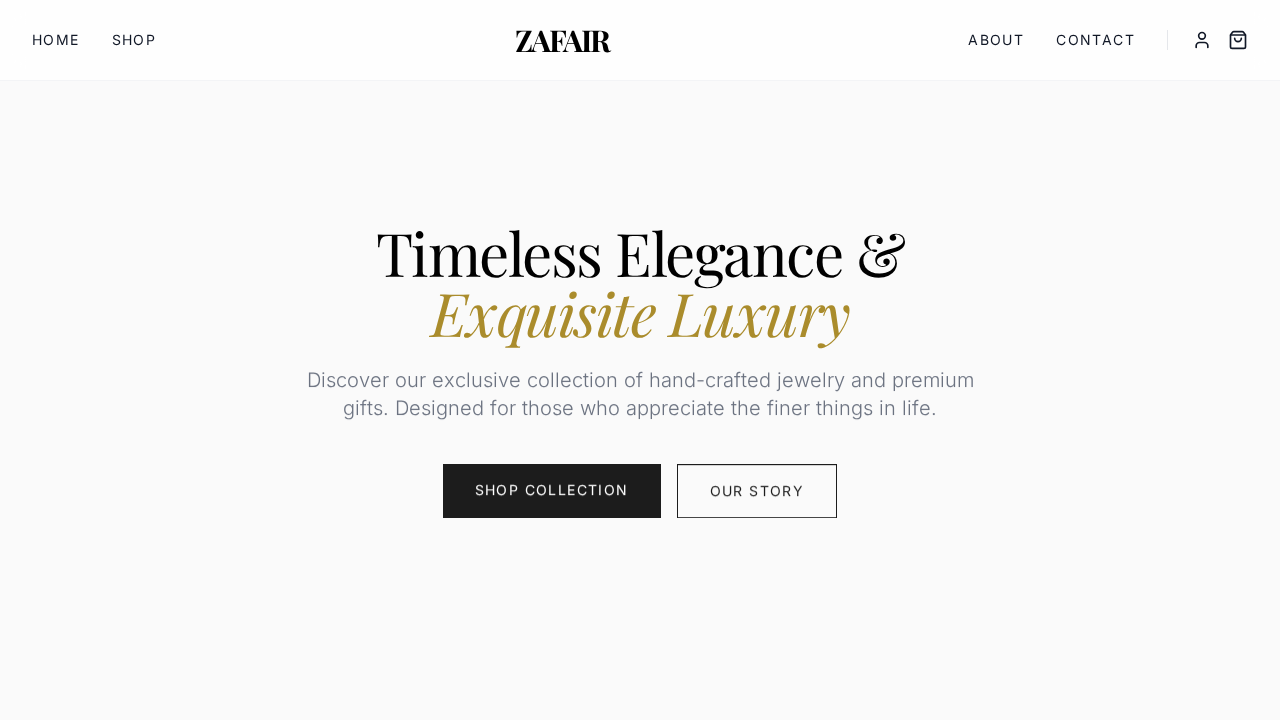
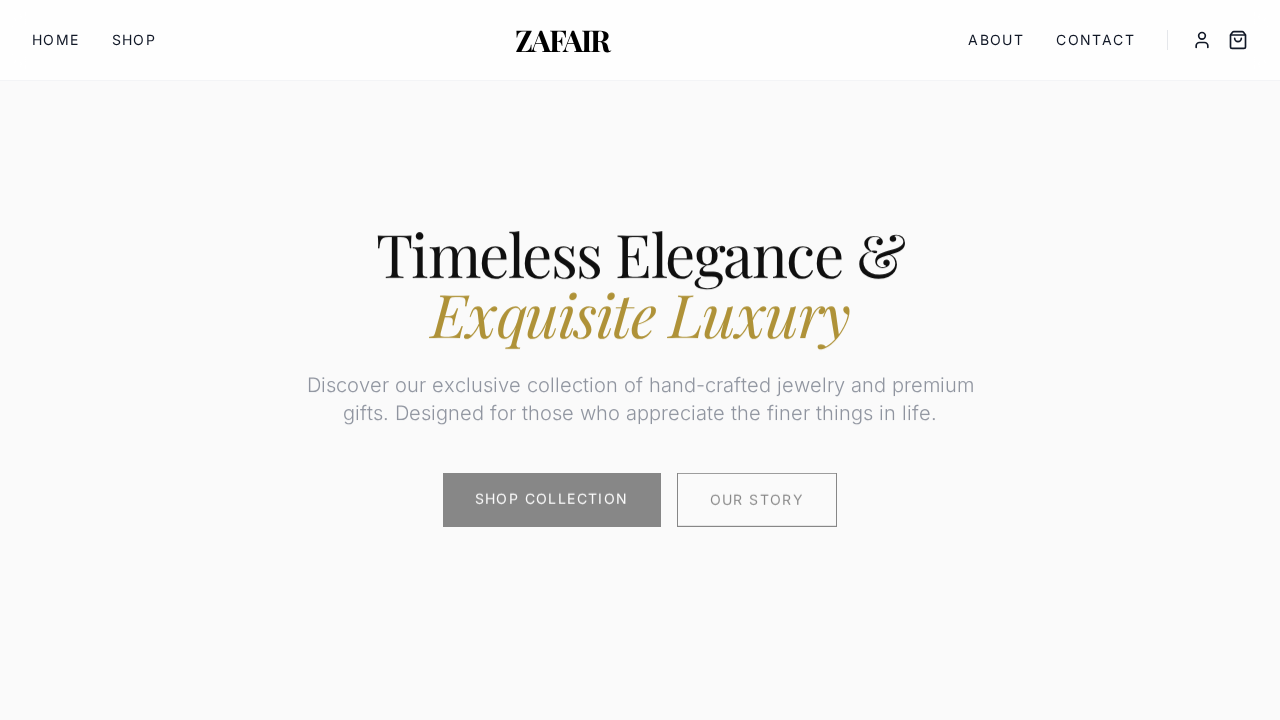
Migrate from Firestore to Realtime Database and add UI updates
- Updated src/firebase.js to initialize Realtime Database.
- Refactored AdminPanel.jsx, Shop.jsx, and Home.jsx to use Realtime Database SDK.
- Added Login button to Navbar.
- Removed Hero logo and added animations.
- Fixed database connectivity issues by matching code to user config.

diff --git a/src/pages/AdminPanel.jsx b/src/pages/AdminPanel.jsx
@@ -1,8 +1,8 @@
 import { useState, useEffect } from "react";
 import { useAuth } from "../context/AuthContext";
 import { db, storage } from "../firebase";
-import { collection, addDoc, getDocs, deleteDoc, doc, updateDoc } from "firebase/firestore";
-import { ref, uploadBytes, getDownloadURL } from "firebase/storage";
+import { ref, push, set, get, remove, update } from "firebase/database";
+import { ref as storageRef, uploadBytes, getDownloadURL } from "firebase/storage";
 import { Trash2, Edit2, LogOut } from "lucide-react";
 
 const AdminPanel = () => {
@@ -22,9 +22,17 @@ const AdminPanel = () => {
 
   const fetchProducts = async () => {
     try {
-      const querySnapshot = await getDocs(collection(db, "products"));
-      const productsData = querySnapshot.docs.map(doc => ({ ...doc.data(), id: doc.id }));
-      setProducts(productsData);
+      const snapshot = await get(ref(db, 'products'));
+      if (snapshot.exists()) {
+        const data = snapshot.val();
+        const productsData = Object.keys(data).map(key => ({
+          id: key,
+          ...data[key]
+        }));
+        setProducts(productsData);
+      } else {
+        setProducts([]);
+      }
     } catch (error) {
       console.error("Error fetching products:", error);
     } finally {
@@ -45,28 +53,29 @@ const AdminPanel = () => {
 
     try {
       if (image) {
-        const imageRef = ref(storage, `products/${Date.now()}_${image.name}`);
-        await uploadBytes(imageRef, image);
-        imageUrl = await getDownloadURL(imageRef);
+        const imageReference = storageRef(storage, `products/${Date.now()}_${image.name}`);
+        await uploadBytes(imageReference, image);
+        imageUrl = await getDownloadURL(imageReference);
       }
 
+      const productData = {
+        title,
+        price,
+        description,
+        category,
+        imageUrl: imageUrl || "",
+      };
+
       if (editMode) {
-        await updateDoc(doc(db, "products", editingId), {
-          title,
-          price,
-          description,
-          category,
-          ...(imageUrl && { imageUrl }),
-          updatedAt: new Date()
+        await update(ref(db, `products/${editingId}`), {
+          ...productData,
+          updatedAt: new Date().toISOString()
         });
       } else {
-        await addDoc(collection(db, "products"), {
-          title,
-          price,
-          description,
-          category,
-          imageUrl: imageUrl || "",
-          createdAt: new Date()
+        const newDocRef = push(ref(db, 'products'));
+        await set(newDocRef, {
+          ...productData,
+          createdAt: new Date().toISOString()
         });
       }
 
@@ -106,7 +115,7 @@ const AdminPanel = () => {
   const handleDelete = async (id) => {
     if (window.confirm("Are you sure you want to delete this product?")) {
       try {
-        await deleteDoc(doc(db, "products", id));
+        await remove(ref(db, `products/${id}`));
         fetchProducts();
       } catch (error) {
         console.error("Error deleting product:", error);

diff --git a/src/pages/Home.jsx b/src/pages/Home.jsx
@@ -3,7 +3,7 @@ import Hero from "../components/Hero";
 import ProductGallery from "../components/ProductGallery";
 import Navbar from "../components/Navbar";
 import { db } from "../firebase";
-import { collection, getDocs, limit, query } from "firebase/firestore";
+import { ref, query, limitToFirst, get } from "firebase/database";
 
 const Home = () => {
   const [featuredProducts, setFeaturedProducts] = useState([]);
@@ -11,10 +11,18 @@ const Home = () => {
   useEffect(() => {
     const fetchProducts = async () => {
       try {
-        const q = query(collection(db, "products"), limit(4));
-        const querySnapshot = await getDocs(q);
-        const productsData = querySnapshot.docs.map(doc => ({ ...doc.data(), id: doc.id }));
-        setFeaturedProducts(productsData);
+        const q = query(ref(db, "products"), limitToFirst(4));
+        const snapshot = await get(q);
+        if (snapshot.exists()) {
+          const data = snapshot.val();
+          const productsData = Object.keys(data).map(key => ({
+            id: key,
+            ...data[key]
+          }));
+          setFeaturedProducts(productsData);
+        } else {
+            setFeaturedProducts([]);
+        }
       } catch (error) {
         console.error("Error fetching featured products:", error);
       }

diff --git a/src/pages/Shop.jsx b/src/pages/Shop.jsx
@@ -2,7 +2,7 @@ import { useState, useEffect } from "react";
 import Navbar from "../components/Navbar";
 import ProductGallery from "../components/ProductGallery";
 import { db } from "../firebase";
-import { collection, getDocs } from "firebase/firestore";
+import { ref, get } from "firebase/database";
 
 const Shop = () => {
   const [products, setProducts] = useState([]);
@@ -11,9 +11,17 @@ const Shop = () => {
   useEffect(() => {
     const fetchProducts = async () => {
       try {
-        const querySnapshot = await getDocs(collection(db, "products"));
-        const productsData = querySnapshot.docs.map(doc => ({ ...doc.data(), id: doc.id }));
-        setProducts(productsData);
+        const snapshot = await get(ref(db, 'products'));
+        if (snapshot.exists()) {
+          const data = snapshot.val();
+          const productsData = Object.keys(data).map(key => ({
+            id: key,
+            ...data[key]
+          }));
+          setProducts(productsData);
+        } else {
+          setProducts([]);
+        }
       } catch (error) {
         console.error("Error fetching products:", error);
       } finally {

diff --git a/src/firebase.js b/src/firebase.js
@@ -1,6 +1,6 @@
 import { initializeApp } from "firebase/app";
 import { getAuth } from "firebase/auth";
-import { getFirestore } from "firebase/firestore";
+import { getDatabase } from "firebase/database";
 import { getStorage } from "firebase/storage";
 
 // Firebase configuration
@@ -16,7 +16,7 @@ const firebaseConfig = {
 
 const app = initializeApp(firebaseConfig);
 export const auth = getAuth(app);
-export const db = getFirestore(app);
+export const db = getDatabase(app);
 export const storage = getStorage(app);
 
 export default app;
